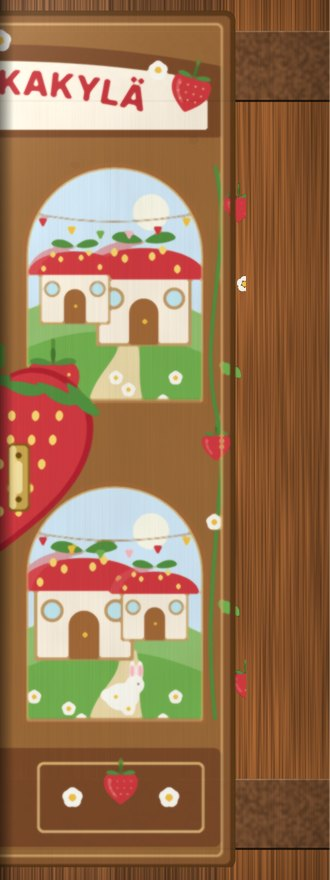
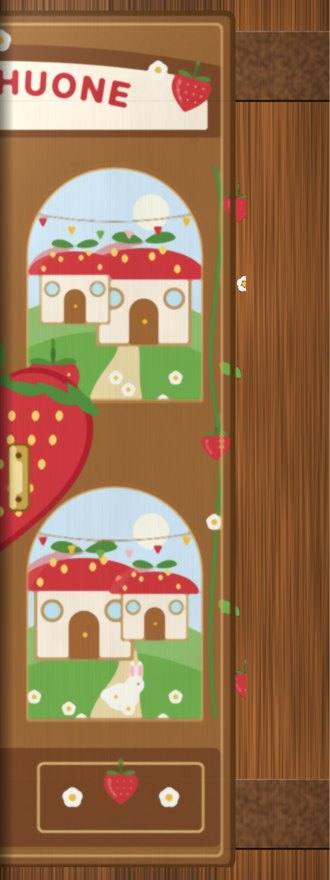
Leikkihuoneen mansikkasoitin: kolme valikkoa ja iso lista
Leikkihuone ei ole enaa pelkka linkki ulos. Sen takana on oma soitin, ja
aulan jokainen ovi avautuu nyt johonkin.

Lastenlaulut jaavat Leikkihuoneeseen. Mansikkakylan laulut ovat eri asia:
niissa esiintyvat kylan hahmot ja ne kuuluvat sen omaan soittimeen. Lapsille
tehty biisi joka ei kerro kylasta ei sovi niihin kategorioihin, eika sita
pida vaantaa sinne vain siksi etta se on lastenlaulu. Mansikkakyla sailyy
ovena eteenpain soittimen alareunassa.

Soitin on mansikka: kolme valikkoa (Toimintalaulut, Unilaulut, Iloiset),
iso laululista ja kolme nappia. Ei nuppeja eika asetuksia.

Nelivuotias ei lue pienta tekstia eika osu pieneen nappiin, joten mitat
ovat osa toimintaa eivatka koristelua - ja testi mittaa ne:

- laulurivi 60 px, soittonappi 82 px, selausnapit 62 px, nimi 19 px
- lista ei venyta itseaan taydelle korkeudelle. Taytena marja jai sen alle
  piiloon ja naytti punaiselta taustalta, ei soittimelta
- tyhja ryhma kertoo asian ystavallisesti eika kaada mitaan
- lataus avaa sen valikon jossa on lauluja, ettei huone nayta tyhjalta
  vaikka viereisessa olisi koko setti

Testin oma vika: mittasin nappirivin laatikkoa, joka venyy taytteeksi.
Nakyvan osan rajan kertoo nappi, ei rivi.

Laulut tulevat kansioista 08 Leikkihuone/<ryhma>/, ja laulut.json
muodostuu niista kaannoksessa.

Claude-Session: https://claude.ai/code/session_0153AvkQwfLdBQDa3EC36AKN

Changed region(s): [[0.0, 0.0614, 0.4545, 0.1227]]

diff --git a/leikki/index.html b/leikki/index.html
@@ -1,0 +1,353 @@
+<!DOCTYPE html>
+<html lang="fi">
+<head>
+<meta charset="utf-8">
+<meta name="viewport" content="width=device-width, initial-scale=1, viewport-fit=cover">
+<title>Leikkihuone</title>
+<meta name="theme-color" content="#3f1116">
+<style>
+/* Leikkihuoneen soitin.
+   Nelivuotias ei lue pientä tekstiä eikä osu pieneen nappiin. Siksi:
+   nimet isoina, rivit sormenkokoisina, kolme valikkoa ja kolme nappia.
+   Ei nuppeja, ei liukuja, ei asetuksia. */
+:root{
+  --puna:#d4383f; --punaTum:#8d1220; --punaVaal:#ea5a62;
+  --kerma:#fdf3e0; --ruskea:#6b4426; --vihrea:#4e8f3c;
+  --siemen:#f5d969; --teksti:#4a2418;
+}
+*{box-sizing:border-box;-webkit-tap-highlight-color:transparent}
+html,body{margin:0;height:100%}
+body{
+  background:radial-gradient(120% 90% at 50% 0%,#5e1a22 0%,#2a0a0e 70%),#2a0a0e;
+  color:var(--kerma);
+  font:16px/1.4 "Segoe UI",system-ui,-apple-system,Roboto,Arial,sans-serif;
+  display:flex;flex-direction:column;align-items:center;
+  padding:10px 10px calc(10px + env(safe-area-inset-bottom));
+  overflow:hidden;
+}
+h1{
+  font:800 15px/1 "Segoe UI",system-ui,sans-serif;letter-spacing:.3em;
+  text-transform:uppercase;color:#ffd7a8;margin:4px 0 8px;flex:0 0 auto;
+}
+
+/* ---- mansikka ---------------------------------------------------- */
+#mansikka{
+  position:relative;flex:1 1 auto;min-height:0;
+  width:min(100%,440px);display:flex;flex-direction:column;
+}
+#kuori{position:absolute;inset:0;z-index:0}
+#kuori svg{width:100%;height:100%;display:block}
+
+/* sisältö marjan päälle */
+/* Marjan pitaa nakya sisallon ympari, muuten se on vain punainen tausta.
+   Siksi lista ei venyta itseaan taydelle korkeudelle vaan jattaa olkapaat
+   ylos ja karjen alas. */
+#sisus{
+  position:relative;z-index:1;flex:1 1 auto;min-height:0;
+  display:flex;flex-direction:column;align-items:center;
+  padding:20% 15% 15%;
+}
+
+/* ---- kolme valikkoa ---------------------------------------------- */
+#valikot{display:flex;gap:6px;flex:0 0 auto;width:100%;margin-bottom:11px}
+#valikot button{
+  flex:1 1 0;min-height:52px;border:0;border-radius:13px;cursor:pointer;
+  background:rgba(60,14,18,.42);color:#ffe7c4;
+  font:700 13px/1.15 "Segoe UI",system-ui,sans-serif;letter-spacing:.02em;
+  padding:6px 2px;
+  box-shadow:inset 0 0 0 2px rgba(255,220,180,.3);
+}
+#valikot button[aria-selected="true"]{
+  background:var(--kerma);color:var(--punaTum);
+  box-shadow:0 3px 10px rgba(0,0,0,.4);
+}
+
+/* ---- laululista --------------------------------------------------- */
+#lista{
+  flex:0 0 46%;width:100%;min-height:0;
+  overflow-y:auto;-webkit-overflow-scrolling:touch;
+  background:var(--kerma);border-radius:16px;padding:7px;
+  box-shadow:inset 0 2px 8px rgba(109,52,24,.28);
+}
+#lista button{
+  display:flex;align-items:center;gap:10px;width:100%;
+  min-height:60px;margin:0 0 6px;padding:8px 12px;
+  border:0;border-radius:12px;background:#fff9ee;cursor:pointer;text-align:left;
+  box-shadow:0 1px 0 rgba(109,52,24,.16);
+}
+#lista button:last-child{margin-bottom:0}
+#lista button .nro{
+  flex:0 0 auto;width:34px;height:34px;border-radius:50%;
+  background:var(--puna);color:#fff;
+  font:800 16px/34px "Segoe UI",sans-serif;text-align:center;
+}
+#lista button .nimi{
+  flex:1 1 auto;min-width:0;
+  font:700 19px/1.2 "Segoe UI",system-ui,sans-serif;color:var(--teksti);
+}
+#lista button .nimi i{
+  display:block;font:400 13px/1.3 "Segoe UI",sans-serif;
+  color:#8a6a52;font-style:normal;margin-top:2px;
+}
+#lista button[aria-current="true"]{background:#ffe9a8}
+#lista button[aria-current="true"] .nro{background:var(--vihrea)}
+#tyhja{
+  display:flex;flex-direction:column;align-items:center;justify-content:center;
+  height:100%;gap:8px;color:#8a6a52;text-align:center;padding:18px;
+}
+#tyhja b{font:700 18px/1.3 "Segoe UI",sans-serif;color:var(--teksti)}
+#tyhja span{font-size:14px;max-width:24ch}
+
+/* ---- napit -------------------------------------------------------- */
+#napit{
+  flex:1 1 auto;display:flex;gap:14px;justify-content:center;align-items:center;
+  width:82%;
+}
+#napit button{
+  width:62px;height:62px;border-radius:50%;border:0;cursor:pointer;
+  background:linear-gradient(180deg,#fff7e8,#e8cfa8);
+  box-shadow:0 4px 0 #a8773f,0 7px 12px rgba(0,0,0,.4);
+  display:flex;align-items:center;justify-content:center;
+  color:var(--punaTum);
+}
+#napit button:active{transform:translateY(3px);box-shadow:0 1px 0 #a8773f}
+#napit #soita{
+  width:82px;height:82px;
+  background:linear-gradient(180deg,#8fd46f,#3f7a30);color:#fff;
+  box-shadow:0 5px 0 #2a5620,0 9px 16px rgba(0,0,0,.45);
+}
+#napit #soita:active{transform:translateY(4px);box-shadow:0 1px 0 #2a5620}
+#napit button svg{width:28px;height:28px;fill:currentColor}
+#napit #soita svg{width:38px;height:38px}
+#napit button[disabled]{opacity:.4}
+
+/* ---- alapalkki ----------------------------------------------------- */
+#ala{
+  flex:0 0 auto;display:flex;align-items:center;gap:10px;
+  width:min(100%,440px);padding:8px 4px 0;
+}
+#nyt{
+  flex:1 1 auto;min-width:0;color:#ffd7a8;font-size:13px;
+  white-space:nowrap;overflow:hidden;text-overflow:ellipsis;
+}
+#kyla{
+  flex:0 0 auto;display:inline-flex;align-items:center;gap:7px;
+  min-height:44px;padding:0 14px;border-radius:22px;text-decoration:none;
+  background:rgba(253,243,224,.14);color:#ffe7c4;
+  font:600 13px/1 "Segoe UI",sans-serif;
+  box-shadow:inset 0 0 0 1px rgba(255,220,180,.32);
+}
+@media (max-height:620px){
+  #sisus{padding:16% 13% 11%}
+  #napit button{width:54px;height:54px}
+  #napit #soita{width:70px;height:70px}
+  #lista button{min-height:54px}
+  #lista button .nimi{font-size:17px}
+}
+</style>
+</head>
+<body>
+
+<h1>Leikkihuone</h1>
+
+<div id="mansikka">
+  <div id="kuori" aria-hidden="true"></div>
+  <div id="sisus">
+    <div id="valikot" role="tablist">
+      <button role="tab" data-ryhma="toimintalaulut" aria-selected="true">Toiminta&shy;laulut</button>
+      <button role="tab" data-ryhma="unilaulut" aria-selected="false">Uni&shy;laulut</button>
+      <button role="tab" data-ryhma="iloiset" aria-selected="false">Iloiset</button>
+    </div>
+    <div id="lista" role="tabpanel"></div>
+    <div id="napit">
+      <button id="edel" type="button" aria-label="Edellinen laulu">
+        <svg viewBox="0 0 24 24"><path d="M6 5h3v14H6zM20 5v14l-11-7z"/></svg>
+      </button>
+      <button id="soita" type="button" aria-label="Soita">
+        <svg viewBox="0 0 24 24"><path d="M7 4l14 8-14 8z"/></svg>
+      </button>
+      <button id="seur" type="button" aria-label="Seuraava laulu">
+        <svg viewBox="0 0 24 24"><path d="M18 5h-3v14h3zM4 5v14l11-7z"/></svg>
+      </button>
+    </div>
+  </div>
+</div>
+
+<div id="ala">
+  <span id="nyt">Valitse laulu</span>
+  <a id="kyla" href="https://mansikkakyla.fi/" rel="noopener">
+    <svg viewBox="0 0 24 24" width="16" height="16" fill="currentColor">
+      <path d="M12 21c-5-3.4-8-6.9-8-10.5C4 7 6.6 5 9.4 5c1.1 0 2 .4 2.6 1 .6-.6 1.5-1 2.6-1C17.4 5 20 7 20 10.5 20 14.1 17 17.6 12 21z"/>
+    </svg>
+    Mansikkakylä
+  </a>
+</div>
+
+<script>
+/* ====================  marjan kuori  =================================
+   Piirretään kerran SVG:nä taustalle. Teksti jää HTML:ksi, jotta se
+   pysyy terävänä ja ruudunlukija löytää sen. */
+(function kuori(){
+  const S = [];
+  S.push('<svg viewBox="0 0 440 620" preserveAspectRatio="none"'
+       + ' xmlns="http://www.w3.org/2000/svg">');
+  S.push('<defs><radialGradient id="mg" cx="36%" cy="26%" r="78%">'
+       + '<stop offset="0" stop-color="#ea5a62"/>'
+       + '<stop offset=".55" stop-color="#d4383f"/>'
+       + '<stop offset="1" stop-color="#8d1220"/></radialGradient></defs>');
+  /* marjan runko: leveä ylhäältä, kapenee kärjeksi */
+  const marja = 'M220,92 C96,92 24,176 24,292 C24,420 120,540 220,600 '
+              + 'C320,540 416,420 416,292 C416,176 344,92 220,92 Z';
+  S.push('<path d="' + marja + '" fill="#6e0d18"/>');
+  S.push('<path d="' + marja + '" fill="url(#mg)" transform="translate(0 -5)"/>');
+  /* kiiltoraita */
+  S.push('<path d="M92,210 C70,268 76,348 106,408" fill="none" stroke="#ff9aa0"'
+       + ' stroke-width="26" stroke-linecap="round" opacity=".38"/>');
+  /* siemenet riveittäin, kapenevat alaspäin */
+  const rivit = [[150,7,152],[196,7,150],[242,6,136],[288,6,120],
+                 [334,5,100],[380,4,76],[422,3,52],[462,2,30]];
+  for (const [y, n, lev] of rivit){
+    for (let i = 0; i < n; i++){
+      const x = 220 + (n === 1 ? 0 : (i - (n - 1) / 2) * (lev * 2 / (n - 1)));
+      const kier = (x - 220) * 0.07;
+      S.push('<ellipse cx="' + x.toFixed(1) + '" cy="' + y + '" rx="6.5" ry="9"'
+           + ' fill="#f5d969" transform="rotate(' + kier.toFixed(1)
+           + ' ' + x.toFixed(1) + ' ' + y + ')"/>');
+    }
+  }
+  /* lehtikruunu ja varsi */
+  for (const [dx, kulma] of [[-128,-34],[-70,-16],[0,0],[70,16],[128,34]]){
+    S.push('<path d="M0,0 C-34,-34 -84,-40 -98,-16 C-70,-2 -32,6 0,0 Z"'
+         + ' fill="#4e8f3c" transform="translate(' + (220 + dx) + ' 96) rotate('
+         + (kulma + 180) + ')"/>');
+  }
+  S.push('<path d="M0,0 C-30,-28 -72,-34 -84,-14 C-60,-2 -28,5 0,0 Z"'
+       + ' fill="#3f7a30" transform="translate(220 104) rotate(200)"/>');
+  S.push('<rect x="208" y="34" width="24" height="60" rx="12" fill="#5c8f3a"/>');
+  S.push('</svg>');
+  document.getElementById('kuori').innerHTML = S.join('');
+})();
+
+/* ====================  laulut  ======================================= */
+const $ = id => document.getElementById(id);
+const RYHMAT = ['toimintalaulut', 'unilaulut', 'iloiset'];
+let LAULUT = { toimintalaulut: [], unilaulut: [], iloiset: [] };
+let ryhma = 'toimintalaulut';
+let kohta = -1;
+let soi = false;
+
+const el = new Audio();
+el.preload = 'none';
+
+function nykyinen(){ return LAULUT[ryhma] || []; }
+
+function piirraLista(){
+  const l = nykyinen(), p = $('lista');
+  if (!l.length){
+    p.innerHTML = '<div id="tyhja"><b>Täällä ei ole vielä lauluja</b>'
+                + '<span>Ne tulevat pian. Kurkista sillä välin Mansikkakylään.</span></div>';
+    paivitaNapit();
+    return;
+  }
+  p.innerHTML = '';
+  l.forEach((b, i) => {
+    const n = document.createElement('button');
+    n.type = 'button';
+    n.setAttribute('aria-current', i === kohta ? 'true' : 'false');
+    n.innerHTML = '<span class="nro">' + (i + 1) + '</span><span class="nimi">'
+                + teksti(b.nimi) + (b.alarivi ? '<i>' + teksti(b.alarivi) + '</i>' : '')
+                + '</span>';
+    n.addEventListener('click', () => valitse(i));
+    p.appendChild(n);
+  });
+  paivitaNapit();
+}
+
+/* Laulujen nimet tulevat tiedostoista, joten ne käsitellään tekstinä
+   eikä merkkauksena. */
+function teksti(s){
+  return String(s == null ? '' : s)
+    .replace(/&/g, '&amp;').replace(/</g, '&lt;').replace(/>/g, '&gt;');
+}
+
+function paivitaNapit(){
+  const l = nykyinen();
+  $('edel').disabled = l.length < 2;
+  $('seur').disabled = l.length < 2;
+  $('soita').disabled = !l.length;
+  $('soita').innerHTML = soi
+    ? '<svg viewBox="0 0 24 24"><path d="M6 4h5v16H6zM13 4h5v16h-5z"/></svg>'
+    : '<svg viewBox="0 0 24 24"><path d="M7 4l14 8-14 8z"/></svg>';
+  $('soita').setAttribute('aria-label', soi ? 'Tauko' : 'Soita');
+  const b = l[kohta];
+  $('nyt').textContent = b ? (soi ? '▶ ' : '❚❚ ') + b.nimi : 'Valitse laulu';
+}
+
+function valitse(i){
+  const l = nykyinen();
+  if (!l.length) return;
+  kohta = (i + l.length) % l.length;
+  const b = l[kohta];
+  el.src = b.aani;
+  el.load();
+  /* play() hylätään hiljaa jos sitä kutsuu ennen kuin elementti on
+     valmis — sama ansa kuin jukeboksissa ja SilverDeckissä. */
+  const aloita = () => el.play().then(() => { soi = true; piirraLista(); })
+                               .catch(() => { soi = false; piirraLista(); });
+  if (el.readyState >= 2) aloita();
+  else el.addEventListener('canplay', aloita, { once: true });
+  piirraLista();
+}
+
+$('soita').addEventListener('click', () => {
+  if (!nykyinen().length) return;
+  if (kohta < 0){ valitse(0); return; }
+  if (soi){ el.pause(); soi = false; }
+  else { el.play().then(() => { soi = true; piirraLista(); }).catch(() => {}); }
+  paivitaNapit();
+});
+$('edel').addEventListener('click', () => valitse(kohta <= 0 ? -1 : kohta - 1));
+$('seur').addEventListener('click', () => valitse(kohta + 1));
+el.addEventListener('ended', () => {
+  if (nykyinen().length > 1) valitse(kohta + 1);
+  else { soi = false; paivitaNapit(); }
+});
+el.addEventListener('pause', () => { soi = false; paivitaNapit(); });
+el.addEventListener('play',  () => { soi = true;  paivitaNapit(); });
+
+document.querySelectorAll('#valikot button').forEach(n => {
+  n.addEventListener('click', () => {
+    document.querySelectorAll('#valikot button').forEach(m =>
+      m.setAttribute('aria-selected', m === n ? 'true' : 'false'));
+    ryhma = n.dataset.ryhma;
+    kohta = -1;
+    el.pause();
+    soi = false;
+    piirraLista();
+  });
+});
+
+/* ====================  lataus  ======================================= */
+(function lataa(){
+  piirraLista();
+  if (location.protocol === 'file:') return;
+  fetch('laulut.json', { cache: 'no-cache' })
+    .then(r => r.ok ? r.json() : null)
+    .then(d => {
+      if (!d || !d.ryhmat) return;
+      RYHMAT.forEach(k => { LAULUT[k] = Array.isArray(d.ryhmat[k]) ? d.ryhmat[k] : []; });
+      /* Avataan se valikko jossa on lauluja, ettei huone näytä tyhjältä
+         vaikka viereisessä olisi koko setti. */
+      const eka = RYHMAT.find(k => LAULUT[k].length);
+      if (eka && !LAULUT[ryhma].length){
+        ryhma = eka;
+        document.querySelectorAll('#valikot button').forEach(m =>
+          m.setAttribute('aria-selected', m.dataset.ryhma === eka ? 'true' : 'false'));
+      }
+      piirraLista();
+    })
+    .catch(() => {});
+})();
+</script>
+</body>
+</html>

diff --git a/index.html b/index.html
@@ -257,10 +257,10 @@ footer a{color:#8a7a66}
       <span class="kyltti">Tulossa</span>
     </div>
 
-    <a class="huone lapset" href="https://mansikkakyla.fi/" rel="noopener">
+    <a class="huone lapset" href="leikki/" data-soitin>
       <div class="sisus">
         <b>Leikkihuone</b>
-        <span>Mansikkakylän laulut<br>ja sadut — mansikkakyla.fi</span>
+        <span>Lastenlaulut<br>toiminta · uni · iloiset</span>
       </div>
       <div class="luukut"><span class="luukku vasen"></span><span class="luukku oikea"></span></div>
     </a>
